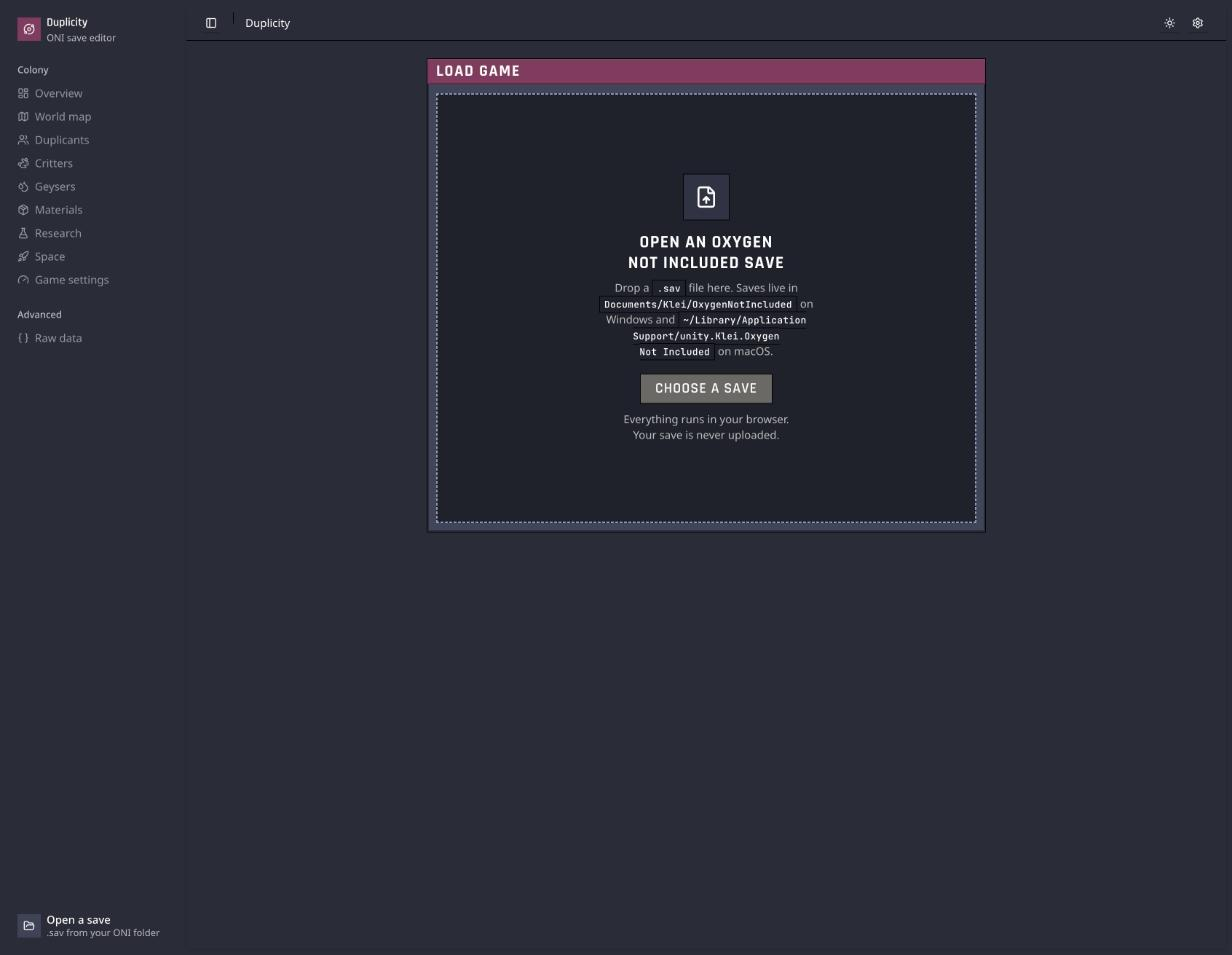
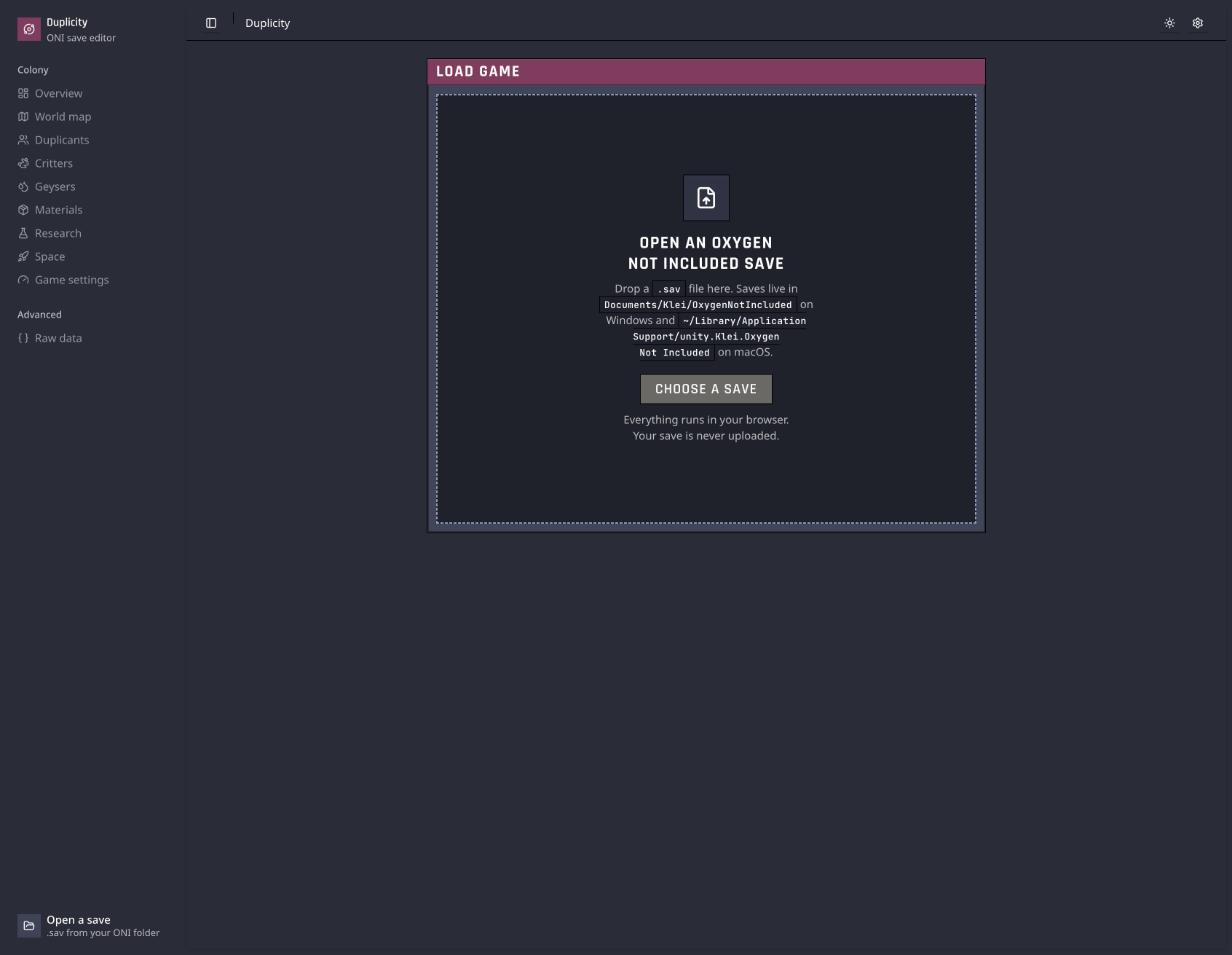
refactor(web): use Card and Badge variants in the load screen and DLC badges

Changed region(s): [[0.4935, 0.2429, 0.6477, 0.4251], [0.3701, 0.0607, 0.401, 0.0911]]

diff --git a/apps/web/src/components/load-states.tsx b/apps/web/src/components/load-states.tsx
@@ -2,13 +2,13 @@ import { useState } from 'react'
 import { Check, ChevronRight, Copy, FileUp, LoaderCircle, TriangleAlert } from 'lucide-react'
 import { toast } from 'sonner'
 import { Button } from '@/components/ui/button'
+import { Card, CardContent, CardHeader, CardTitle } from '@/components/ui/card'
 import {
   Empty,
   EmptyContent,
   EmptyDescription,
   EmptyHeader,
   EmptyMedia,
-  EmptyTitle,
 } from '@/components/ui/empty'
 import { Progress } from '@/components/ui/progress'
 import { loadErrorReport, type LoadErrorInfo } from '@/lib/load-error'
@@ -27,10 +27,14 @@ function LoadPanel({
   children: React.ReactNode
 }) {
   return (
-    <section className="panel mx-auto w-full max-w-3xl">
-      <div className={cn('title-bar', tone === 'error' && 'bg-[#962a28]')}>{title}</div>
-      <div className="p-3">{children}</div>
-    </section>
+    <Card className="mx-auto w-full max-w-3xl">
+      <CardHeader
+        className={cn(tone === 'error' && 'bg-[color-mix(in_oklab,var(--bad)_65%,#000)]')}
+      >
+        <CardTitle>{title}</CardTitle>
+      </CardHeader>
+      <CardContent>{children}</CardContent>
+    </Card>
   )
 }
 
@@ -62,7 +66,9 @@ export function OpenSave({ onFile, onPick }: { onFile: (file: File) => void; onP
           >
             <FileUp />
           </EmptyMedia>
-          <EmptyTitle className="text-h2!">Open an Oxygen Not Included save</EmptyTitle>
+          <div data-slot="empty-title" className="type-h2 uppercase">
+            Open an Oxygen Not Included save
+          </div>
           <EmptyDescription>
             Drop a <code className={code}>.sav</code> file here. Saves live in{' '}
             <code className={code}>Documents/Klei/OxygenNotIncluded</code> on Windows and{' '}
@@ -96,7 +102,9 @@ export function LoadingSave({ fileName, progress }: { fileName: string; progress
           >
             <LoaderCircle className="animate-spin" />
           </EmptyMedia>
-          <EmptyTitle className="text-h2! break-all">Reading {fileName}</EmptyTitle>
+          <div data-slot="empty-title" className="type-h2 uppercase break-all">
+            Reading {fileName}
+          </div>
           <EmptyDescription>Large late-game saves take a few seconds.</EmptyDescription>
         </EmptyHeader>
         <EmptyContent className="max-w-md">
@@ -129,7 +137,9 @@ export function LoadError({ info, onPick }: { info: LoadErrorInfo; onPick: () =>
           >
             <TriangleAlert />
           </EmptyMedia>
-          <EmptyTitle className="text-h2!">{info.title}</EmptyTitle>
+          <div data-slot="empty-title" className="type-h2 uppercase">
+            {info.title}
+          </div>
           <EmptyDescription>{info.hint}</EmptyDescription>
         </EmptyHeader>
         <EmptyContent>

diff --git a/apps/web/src/components/dlc-badge.tsx b/apps/web/src/components/dlc-badge.tsx
@@ -1,33 +1,36 @@
-import { Badge } from '@/components/ui/badge'
+import { Badge, type badgeVariants } from '@/components/ui/badge'
+import type { VariantProps } from 'class-variance-authority'
 import { cn } from '@/lib/utils'
 
-const DLCS: Record<string, { name: string; className: string }> = {
+type BadgeVariant = NonNullable<VariantProps<typeof badgeVariants>['variant']>
+
+const DLCS: Record<string, { name: string; variant: BadgeVariant }> = {
   EXPANSION1_ID: {
     name: 'Spaced Out!',
-    className: '[--c:var(--cat-dlc)]',
+    variant: 'dlc',
   },
   DLC2_ID: {
     name: 'Frosty Planet',
-    className: '[--c:var(--cat-gas)]',
+    variant: 'oxygen',
   },
   DLC3_ID: {
     name: 'Bionic Booster',
-    className: '[--c:var(--cat-food)]',
+    variant: 'power',
   },
   DLC4_ID: {
     name: 'Prehistoric Planet',
-    className: '[--c:var(--cat-plant)]',
+    variant: 'plant',
   },
   DLC5_ID: {
     name: 'Aquatic Planet',
-    className: '[--c:var(--cat-water)]',
+    variant: 'water',
   },
 }
 
 export function DlcBadge({ id, className }: { id: string; className?: string }) {
   const dlc = DLCS[id]
   return (
-    <Badge variant="outline" className={cn(dlc?.className, className)}>
+    <Badge variant={dlc?.variant ?? 'outline'} className={className}>
       {dlc?.name ?? id}
     </Badge>
   )

diff --git a/docs/progress.md b/docs/progress.md
@@ -84,10 +84,10 @@ Node 24.21.0, pnpm 12.6.0, TypeScript 7.0.2.
 
 ## UI dialogs and load screen (design v2) — 2026-11-05
 
-- `load-states.tsx`: the drop zone, loading and error states sit in a `panel` with a title bar ("Load game", "Loading", "Load failed" on a red bar), over an inset dashed drop area with a large icon, a `text-h2` title and a large button. Loading uses the `task` progress meter. The drag-over state turns the dashed border orange.
+- `load-states.tsx`: the drop zone, loading and error states sit in a `Card` with a title bar ("Load game", "Loading", "Load failed" on a red bar), over an inset dashed drop area with a large icon, a `text-h2` title and a large button. Loading uses the `task` progress meter. The drag-over state turns the dashed border orange.
 - `save-dialog.tsx`: the backup warning is a `well` block with the title in the warning colour, filenames in code chips, and the edit list in a sunken field. Cancel is the dark secondary button.
 - `preferences-dialog.tsx`: the Theme setting is removed, because the app is dark only (design.md section 1). The shell's own theme toggle button is in `App.tsx`/`site-header` and is left to the shell session.
-- `dlc-badge.tsx`: DLC badges use the badge chip tone (`--c` set from the category tokens) instead of hard-coded Tailwind palette colours.
+- `dlc-badge.tsx`: DLC badges use `Badge` variants (dlc, oxygen, power, plant, water) instead of hard-coded Tailwind palette colours.
 - No other behaviour change; text, roles and names are unchanged. Before and after screenshots are in `docs/screenshots/ui-dialogs`.
 
 ## UI component library (design v2, phase 1) — 2026-11-05
